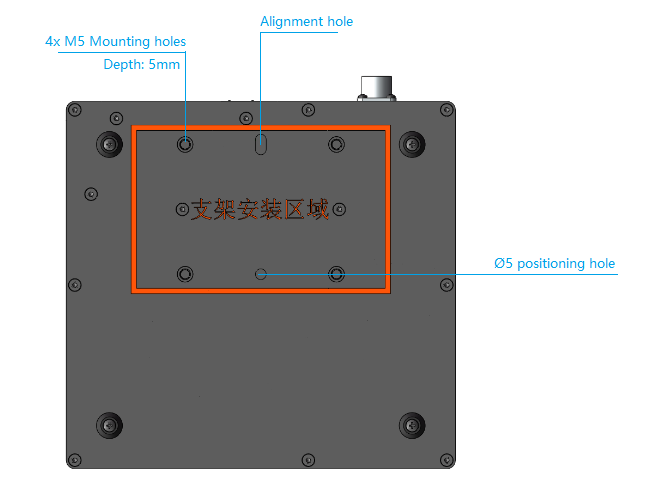
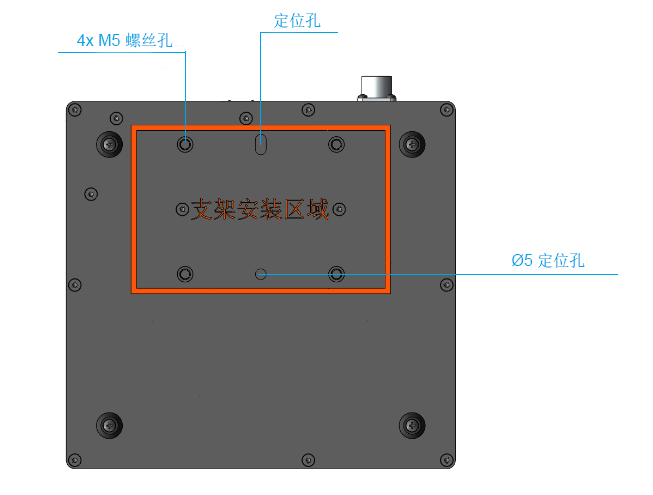
Merged in czhang_mod_chinese (pull request #33)
中文 - 修改文档内容，图片

* change image size in quickstart

* replace image

* added warning to laser camera

* update image

Approved-by: Jack Wu

Changed region(s): [[0.0613, 0.0606, 0.2757, 0.1515], [0.7351, 0.5152, 0.9495, 0.5455], [0.3982, 0.0303, 0.5513, 0.0606]]

diff --git a/docs/source/getting-started/quick-start-guide/index.rst b/docs/source/getting-started/quick-start-guide/index.rst
@@ -51,7 +51,7 @@
 
             .. image:: images/amr_1.png
                :align: right
-               :scale: 80%
+               :scale: 15%
             
             3D相机使用主动照明来检测你的目标对象。
             |br| 为了尽量减少来自背景的直接反射，并减少
@@ -70,7 +70,7 @@
 
             .. image:: images/small.png
                :align: right
-               :scale: 70%
+               :scale: 10%
             
             A. 电源连接器 24V, 10A DC
             
@@ -148,7 +148,7 @@
 
             .. image:: images/amr_1.png
                :align: right
-               :scale: 80%
+               :scale: 15%
             
             3D相机使用主动照明来检测你的目标对象。
             |br| 为了尽量减少来自背景的直接反射，并减少
@@ -245,7 +245,7 @@
 
             .. image:: images/amr_1.png
                :align: right
-               :scale: 80%
+               :scale: 15%
             
             3D相机使用主动照明来检测你的目标对象。
             |br| 为了尽量减少来自背景的直接反射，并减少
@@ -344,7 +344,7 @@
 
             .. image:: images/amr_1.png
                :align: right
-               :scale: 80%
+               :scale: 15%
             
             3D相机使用主动照明来检测你的目标对象。
             |br| 为了尽量减少来自背景的直接反射，并减少
@@ -362,7 +362,7 @@
 
             .. image:: images/amr.png
                :align: right
-               :scale: 18%
+               :scale: 10%
             
             
             A. 以太网连接器 CAT 6 or 更高
@@ -441,7 +441,7 @@
 
             .. image:: images/amr_1.png
                :align: right
-               :scale: 80%
+               :scale: 15%
             
             3D相机使用主动照明来检测你的目标对象。
             |br| 为了尽量减少来自背景的直接反射，并减少
@@ -538,7 +538,7 @@
 
             .. image:: images/amr_1.png
                :align: right
-               :scale: 80%
+               :scale: 15%
             
             3D相机使用主动照明来检测你的目标对象。
             |br| 为了尽量减少来自背景的直接反射，并减少
@@ -558,7 +558,7 @@
 
             .. image:: images/laser.png
                :align: right
-               :scale: 20%
+               :scale: 10%
             
             A. 电源连接器 24V, 10A DC
             
@@ -589,6 +589,9 @@
             |br|
             |br|
             更多信息见 :ref:`相机工作室指南`. 
+
+      .. Warning::
+         **请勿直视激光**。激光光束可能会损伤你的眼睛。
 .. |br| raw:: html
 
       <br>

diff --git a/docs/source/getting-started/user-guide/mechanical-installation/overview.rst b/docs/source/getting-started/user-guide/mechanical-installation/overview.rst
@@ -152,7 +152,8 @@
 周围的光线可能会降低性能，考虑阻挡影响场景的直接光线。
 
 .. image:: images/positioning-correctly/fov.png
-    :align: center
+      :scale: 35%
+      :align: center
 
 .. note::
     如果场景包含高反光的物体，相机的倾斜就更加重要。
@@ -166,7 +167,8 @@
 投影仪的光线不应落在离投影仪最近的两面箱壁上的内表面；它们应几乎与这两面箱壁平行。这样安装摄像机可以最大限度地减少箱壁的相互反射。
 
 .. image:: images/positioning-correctly/position.png
-        :align: center
+   :scale: 35%
+   :align: center
 
 冷却间隙
 ----------------------------------

diff --git a/docs/source/getting-started/user-guide/unboxing/overview.rst b/docs/source/getting-started/user-guide/unboxing/overview.rst
@@ -195,3 +195,6 @@
          - 三脚架适配器
 
       安装附件包括在开发套件中或单独订购
+
+      .. Warning::
+         **请勿直视激光**。激光光束可能会损伤你的眼睛。
